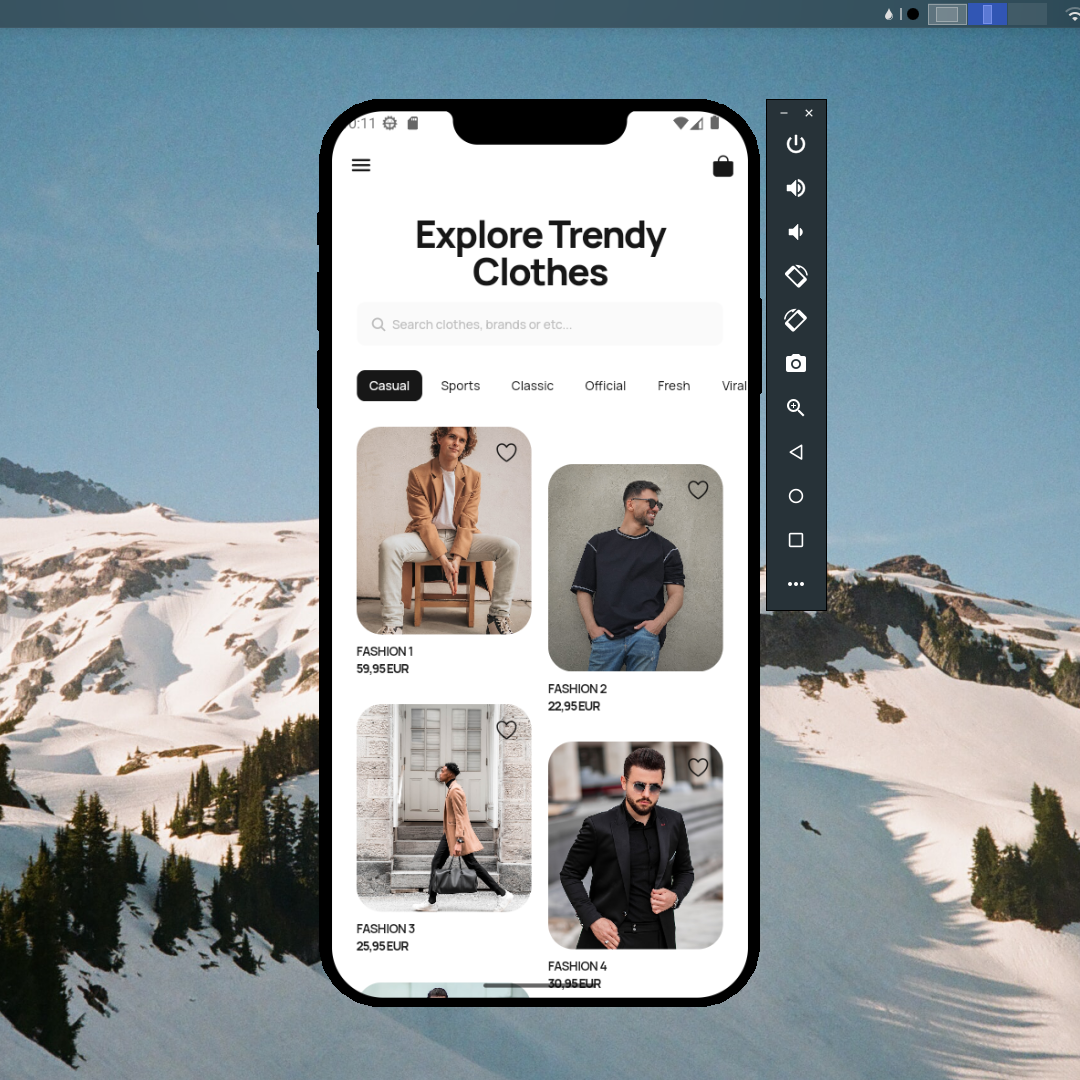
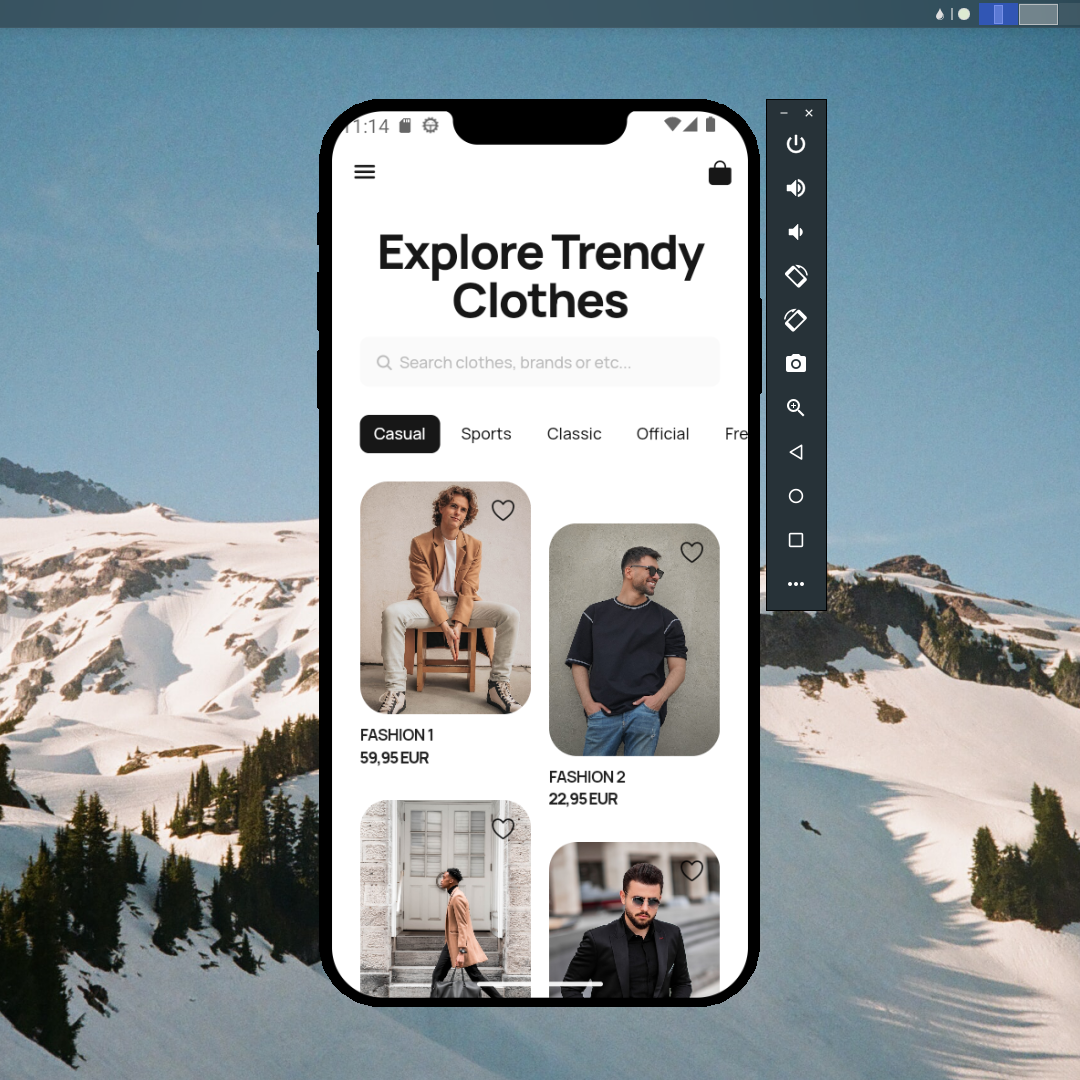
Update Readme

diff --git a/README.md b/README.md
@@ -4,7 +4,22 @@
 void main() => runApp(MaterialApp(
       theme: ThemeData(fontFamily: 'Manrope'),
       debugShowCheckedModeBanner: false,
-      home: HomeScreen(),
+      initialRoute: '/',
+      onGenerateRoute: (settings) {
+        final arguments = settings.arguments;
+        if (settings.name == '/detail') {
+          DetailScreenArguments args = arguments as DetailScreenArguments;
+          return RouteAnimation.slide(
+              settings,
+              DetailScreen(
+                  name: args.name,
+                  price: args.price,
+                  is_liked: args.is_liked,
+                  image_url: args.image_url));
+        } else {
+          return RouteAnimation.slide(settings, const HomeScreen());
+        }
+      },
     ));
 ```
 
@@ -21,6 +36,7 @@ flutter run
 
 ## Screenshots
 <img src="screenshots/1.png" />
+<img src="screenshots/2.png" />
 
 ## Links
 
